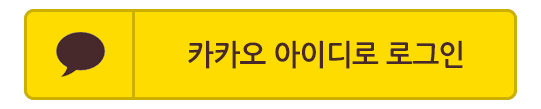
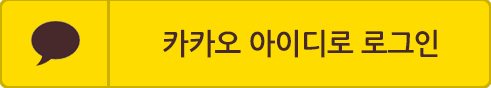
Animation적용

diff --git a/src/components/LoginBox.tsx b/src/components/LoginBox.tsx
@@ -4,7 +4,8 @@ import styled from "styled-components";
 import btn_login_kakao from "../assets/images/btn_login_kakao.png";
 import skku_logo from "../assets/images/skku_logo.png";
 import vaiv_logo from "../assets/images/vaiv_logo.png";
-
+import { motion } from "framer-motion";
+import React, {useState} from "react";
 
 const LoginBoxContainer = styled.div`
     flex-direction: column;
@@ -12,11 +13,11 @@ const LoginBoxContainer = styled.div`
     width: 40vw;
     height: 36vh;
     border-radius: 1vw;
-    display: flex;
     box-shadow: 2px 2px 20px rgba(0, 0, 0, 0.5);
 `
 const LogoContainer = styled.div`
-    diplay: flex;
+    height: 18vh;
+    width: 40vw;
     flex-direction: column;
     padding-bottom: 2.5vh;
 `
@@ -24,7 +25,7 @@ const LogoContainer = styled.div`
 
 const VaivImageContainer = styled.div`
     display:flex;
-    height: 12vh;
+    height: 13vh;
     justify-content: center;
     padding-top: 3vh;
     padding-bottom: 2vh;
@@ -35,17 +36,38 @@ const SkkuImageContainer = styled.div`
     padding-left:1vw;
     padding-top:1vh;
 `
+interface IKakaoImageContainer {
+    isMouse: boolean;
+}
 
-const KakaoImageContainer = styled.div`
+
+const KakaoImageContainer = styled.div<IKakaoImageContainer>`
     display:flex;
-    height: 12vh;
+    height: ${(props) => (props.isMouse ? "12.2vh" : "12vh")};
     justify-content: center;
     padding-top: 2vh;
     padding-bottom: 2vh;
+    cursor: pointer;
 `
 
 
+
+
 function LoginBox() {
+    const [isOnMouse, setIsOnMouse] = useState(false);
+
+    function handleKakaoLogin(){
+        alert("login");
+    };
+
+    const handleOnMouse = () => {
+        setIsOnMouse(true);
+    };
+
+    const handleOutMouse = () => {
+        setIsOnMouse(false);
+    };
+
     return(
         <LoginBoxContainer>
             <LogoContainer>
@@ -57,9 +79,14 @@ function LoginBox() {
                 </VaivImageContainer>
             </LogoContainer>
             <LogoContainer>
-                <KakaoImageContainer>
+                <KakaoImageContainer isMouse = {isOnMouse}
+                    onClick={() => handleKakaoLogin()}
+                    onMouseOver = {() => handleOnMouse()}
+                    onMouseOut = {() => handleOutMouse()}
+                >
                     <img src={btn_login_kakao}></img>
                 </KakaoImageContainer>
+
             </LogoContainer>
         </LoginBoxContainer>
     );

diff --git a/src/pages/TopPick.tsx b/src/pages/TopPick.tsx
@@ -1,0 +1,12 @@
+
+import styled from "styled-components";
+
+
+
+
+function TopPickPage(){
+    return;
+}
+
+
+export default TopPickPage;
